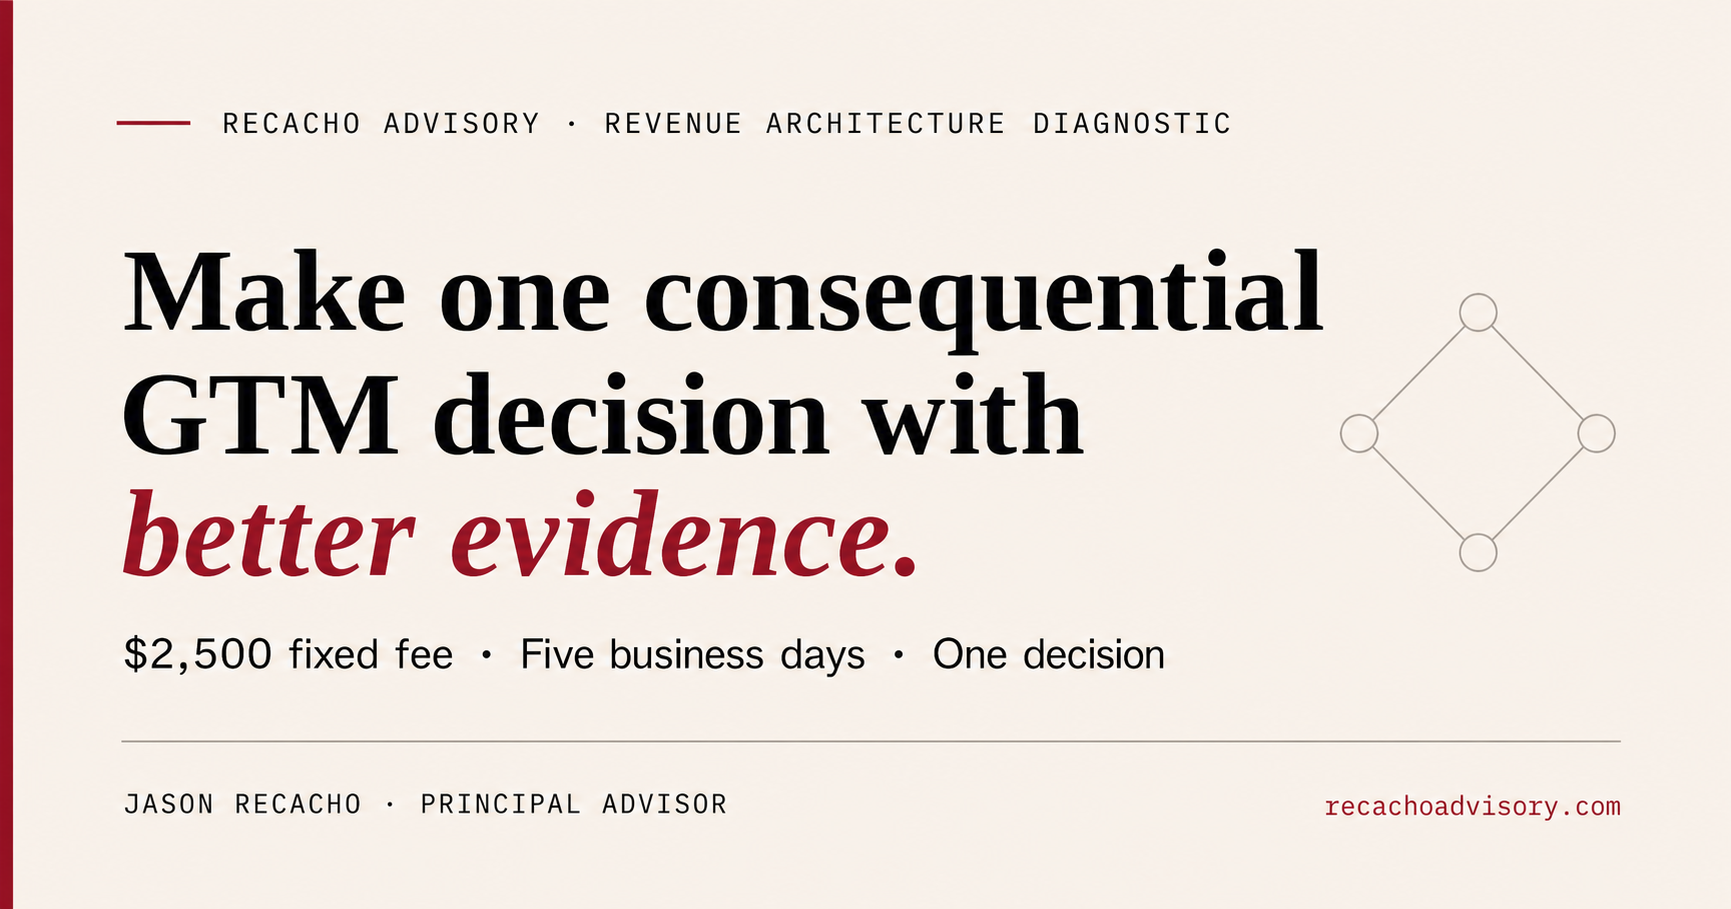
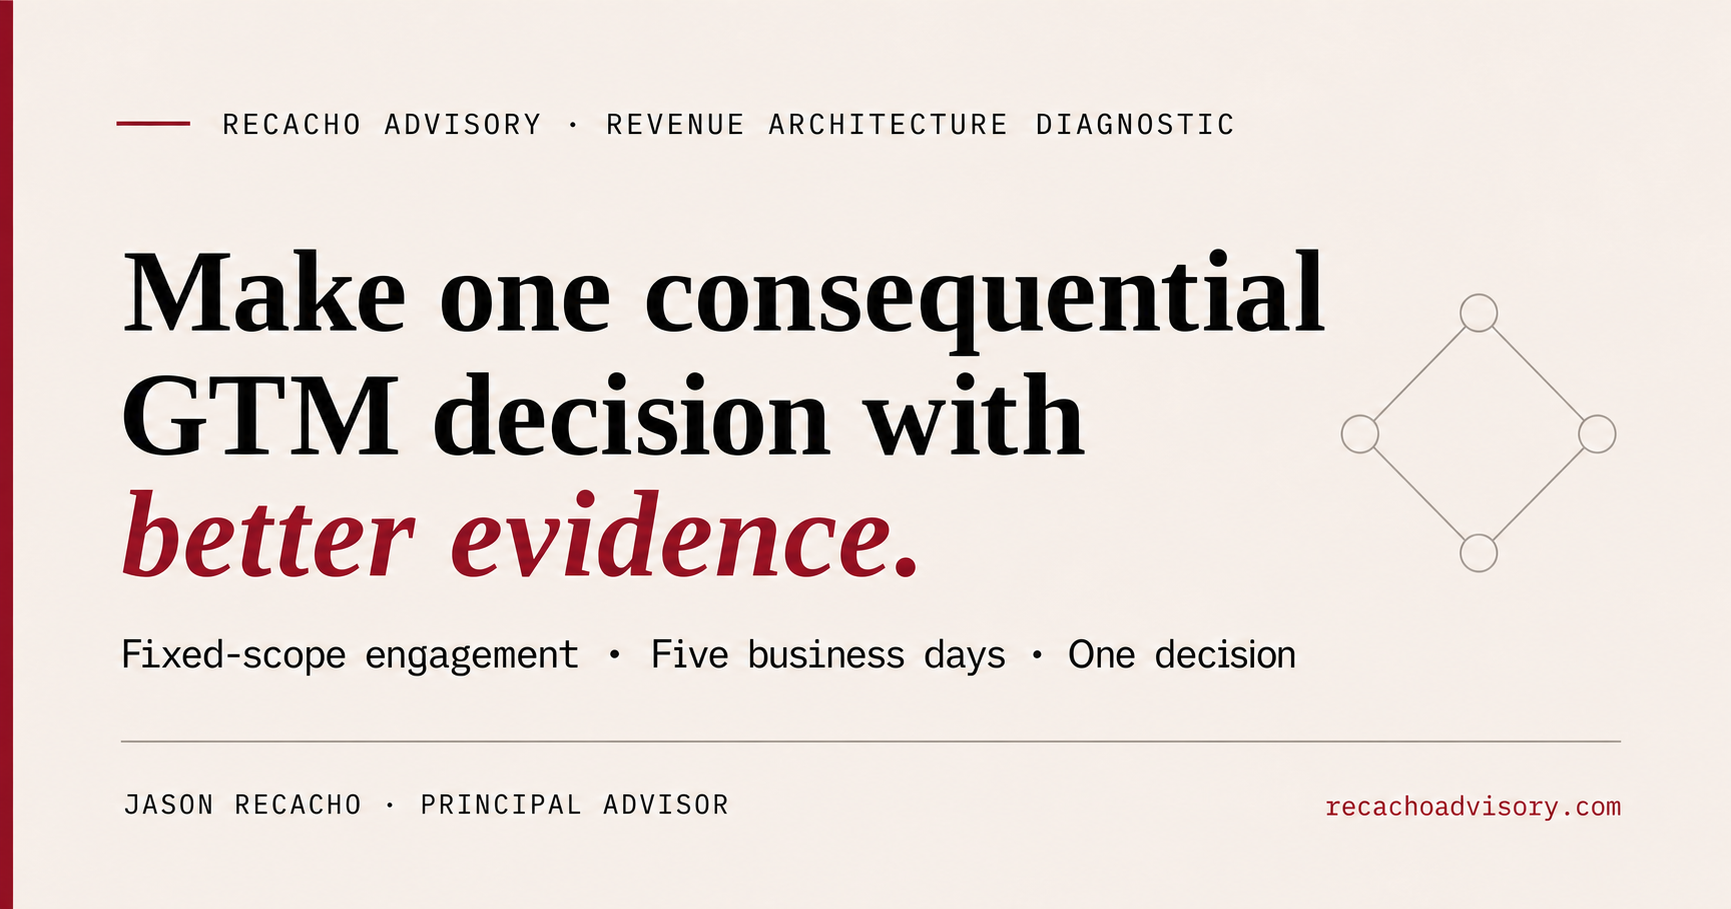
Remove public Diagnostic price

diff --git a/diagnostic.html b/diagnostic.html
@@ -49,8 +49,6 @@
     "areaServed": "United States",
     "offers": {
       "@type": "Offer",
-      "price": "2500",
-      "priceCurrency": "USD",
       "availability": "https://schema.org/LimitedAvailability",
       "url": "https://www.recachoadvisory.com/diagnostic.html#apply"
     }
@@ -88,8 +86,8 @@
         </div>
         <aside class="offer-contract" aria-label="Diagnostic terms">
           <div class="contract-row">
-            <span>Fixed fee</span>
-            <strong>$2,500</strong>
+            <span>Fee</span>
+            <strong>Confirmed after fit</strong>
           </div>
           <div class="contract-row">
             <span>Delivery</span>
@@ -344,7 +342,7 @@
 
           <label class="consent-row">
             <input type="checkbox" name="consent" required>
-            <span>I understand that no confidential files should be included and the $2,500 fee is invoiced only after fit is confirmed.</span>
+            <span>I understand that no confidential files should be included and the engagement fee is confirmed in writing only after fit is confirmed.</span>
           </label>
 
           <div class="form-trap" aria-hidden="true">

diff --git a/index.html b/index.html
@@ -383,7 +383,7 @@
             <h3>Revenue Architecture Diagnostic</h3>
             <p class="best-for"><strong>Best for</strong>Founders who know the GTM motion is underperforming but have not isolated why.</p>
             <p class="model-description">Resolve one imminent GTM decision through a five-business-day review of market, narrative, revenue-motion, and ecosystem evidence.</p>
-            <p class="model-terms"><strong>$2,500 fixed fee</strong><span>One decision · Direct senior review · 30-day follow-up</span></p>
+            <p class="model-terms"><strong>Fixed-scope engagement</strong><span>One decision · Direct senior review · 30-day follow-up</span></p>
             <a class="model-link" href="/diagnostic.html" data-event="diagnostic_explore_click" data-label="Engagement card">See scope and sample memo <span aria-hidden="true">→</span></a>
           </article>
           <article class="model">

diff --git a/diagnostic.js b/diagnostic.js
@@ -40,7 +40,7 @@ document.addEventListener("DOMContentLoaded", () => {
       data.get("context") || "None provided",
       "",
       "I understand that this application does not submit confidential files,",
-      "and that the $2,500 fixed fee is invoiced only after fit is confirmed.",
+      "and that the engagement fee is confirmed in writing only after fit is confirmed.",
     ].join("\n");
   }
 

diff --git a/product/DIAGNOSTIC_RUBRIC.md b/product/DIAGNOSTIC_RUBRIC.md
@@ -4,7 +4,7 @@
 
 - Buyer: founder, CEO, or accountable GTM executive at a seed-to-Series B AI, data, or SaaS company.
 - Trigger: one consequential go-to-market decision due within 60 days.
-- Fixed fee: $2,500.
+- Fee: confirmed in writing after fit.
 - Delivery: five business days after payment, kickoff, and receipt of the complete evidence set.
 - Included: 45-minute kickoff, review of up to eight artifacts, decision memo, 60-minute readout, and one 30-day outcome review.
 - Excluded: campaign production, lead generation, sales outsourcing, implementation, broad organizational transformation, and simultaneous analysis of unrelated decisions.

diff --git a/product/DELIVERY_PLAYBOOK.md b/product/DELIVERY_PLAYBOOK.md
@@ -9,7 +9,7 @@
    - the company has customers, pipeline, or other credible market evidence;
    - the decision fits the diagnostic rather than a broader implementation sprint.
 3. Decline, refer, or rescope when these conditions are not met.
-4. Send the short agreement and $2,500 invoice only after fit is confirmed.
+4. Confirm the engagement fee in writing, then send the short agreement and invoice only after fit is confirmed.
 
 ## Stage 1 — Secure intake
 

diff --git a/README.md b/README.md
@@ -13,7 +13,7 @@ The site has three audience paths:
 
 The fixed-scope offer includes:
 
-- $2,500 fixed fee
+- engagement fee confirmed in writing after fit
 - one consequential GTM decision
 - five-business-day delivery after complete inputs
 - review of up to eight artifacts
